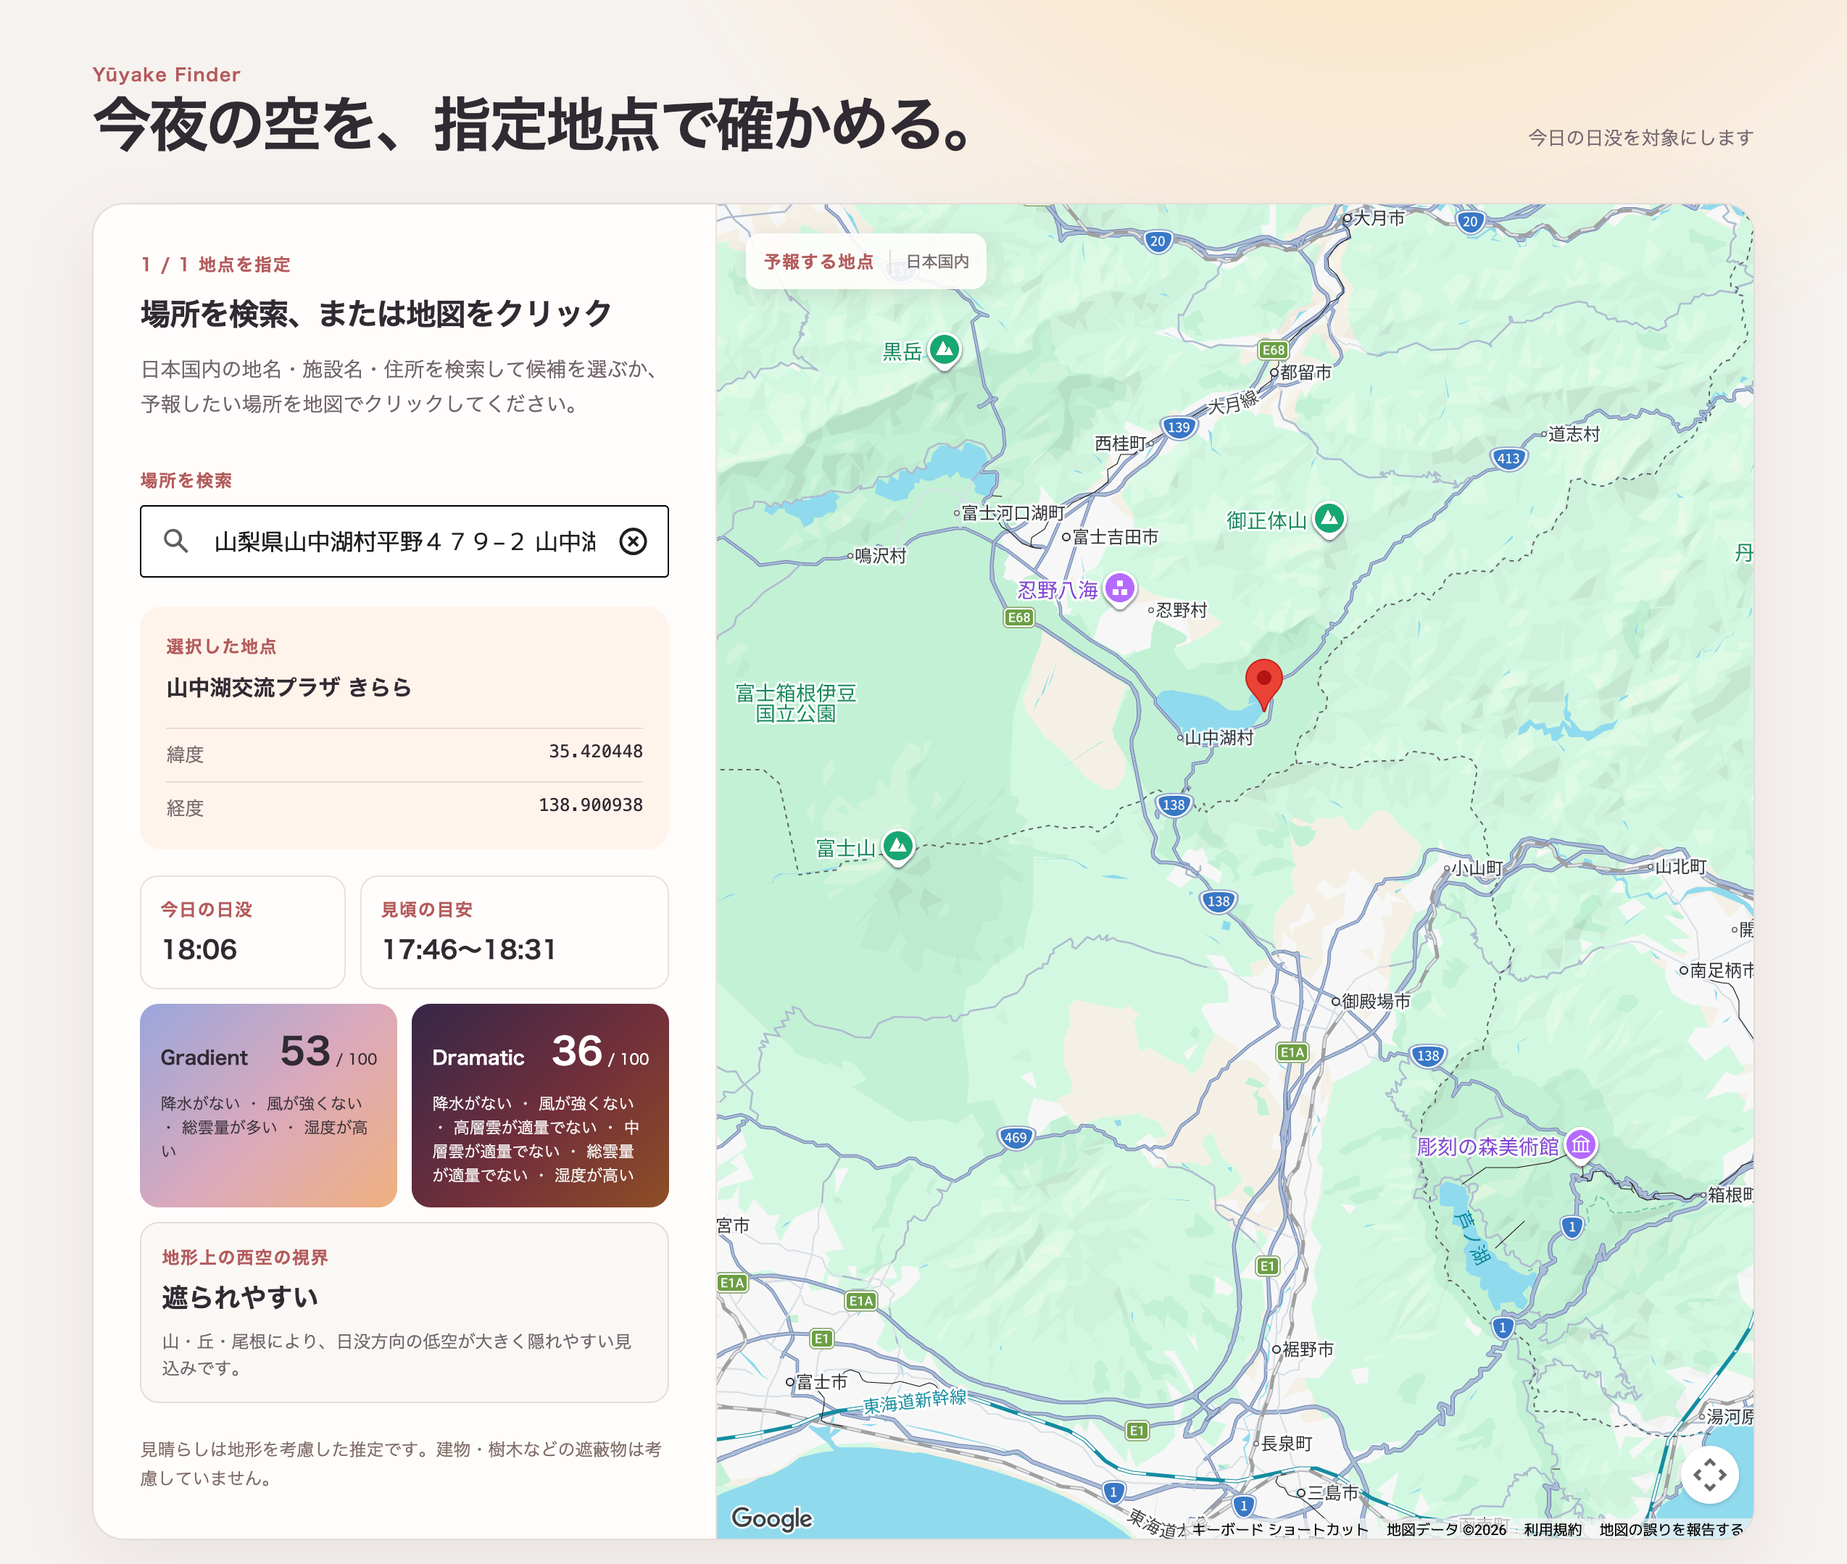
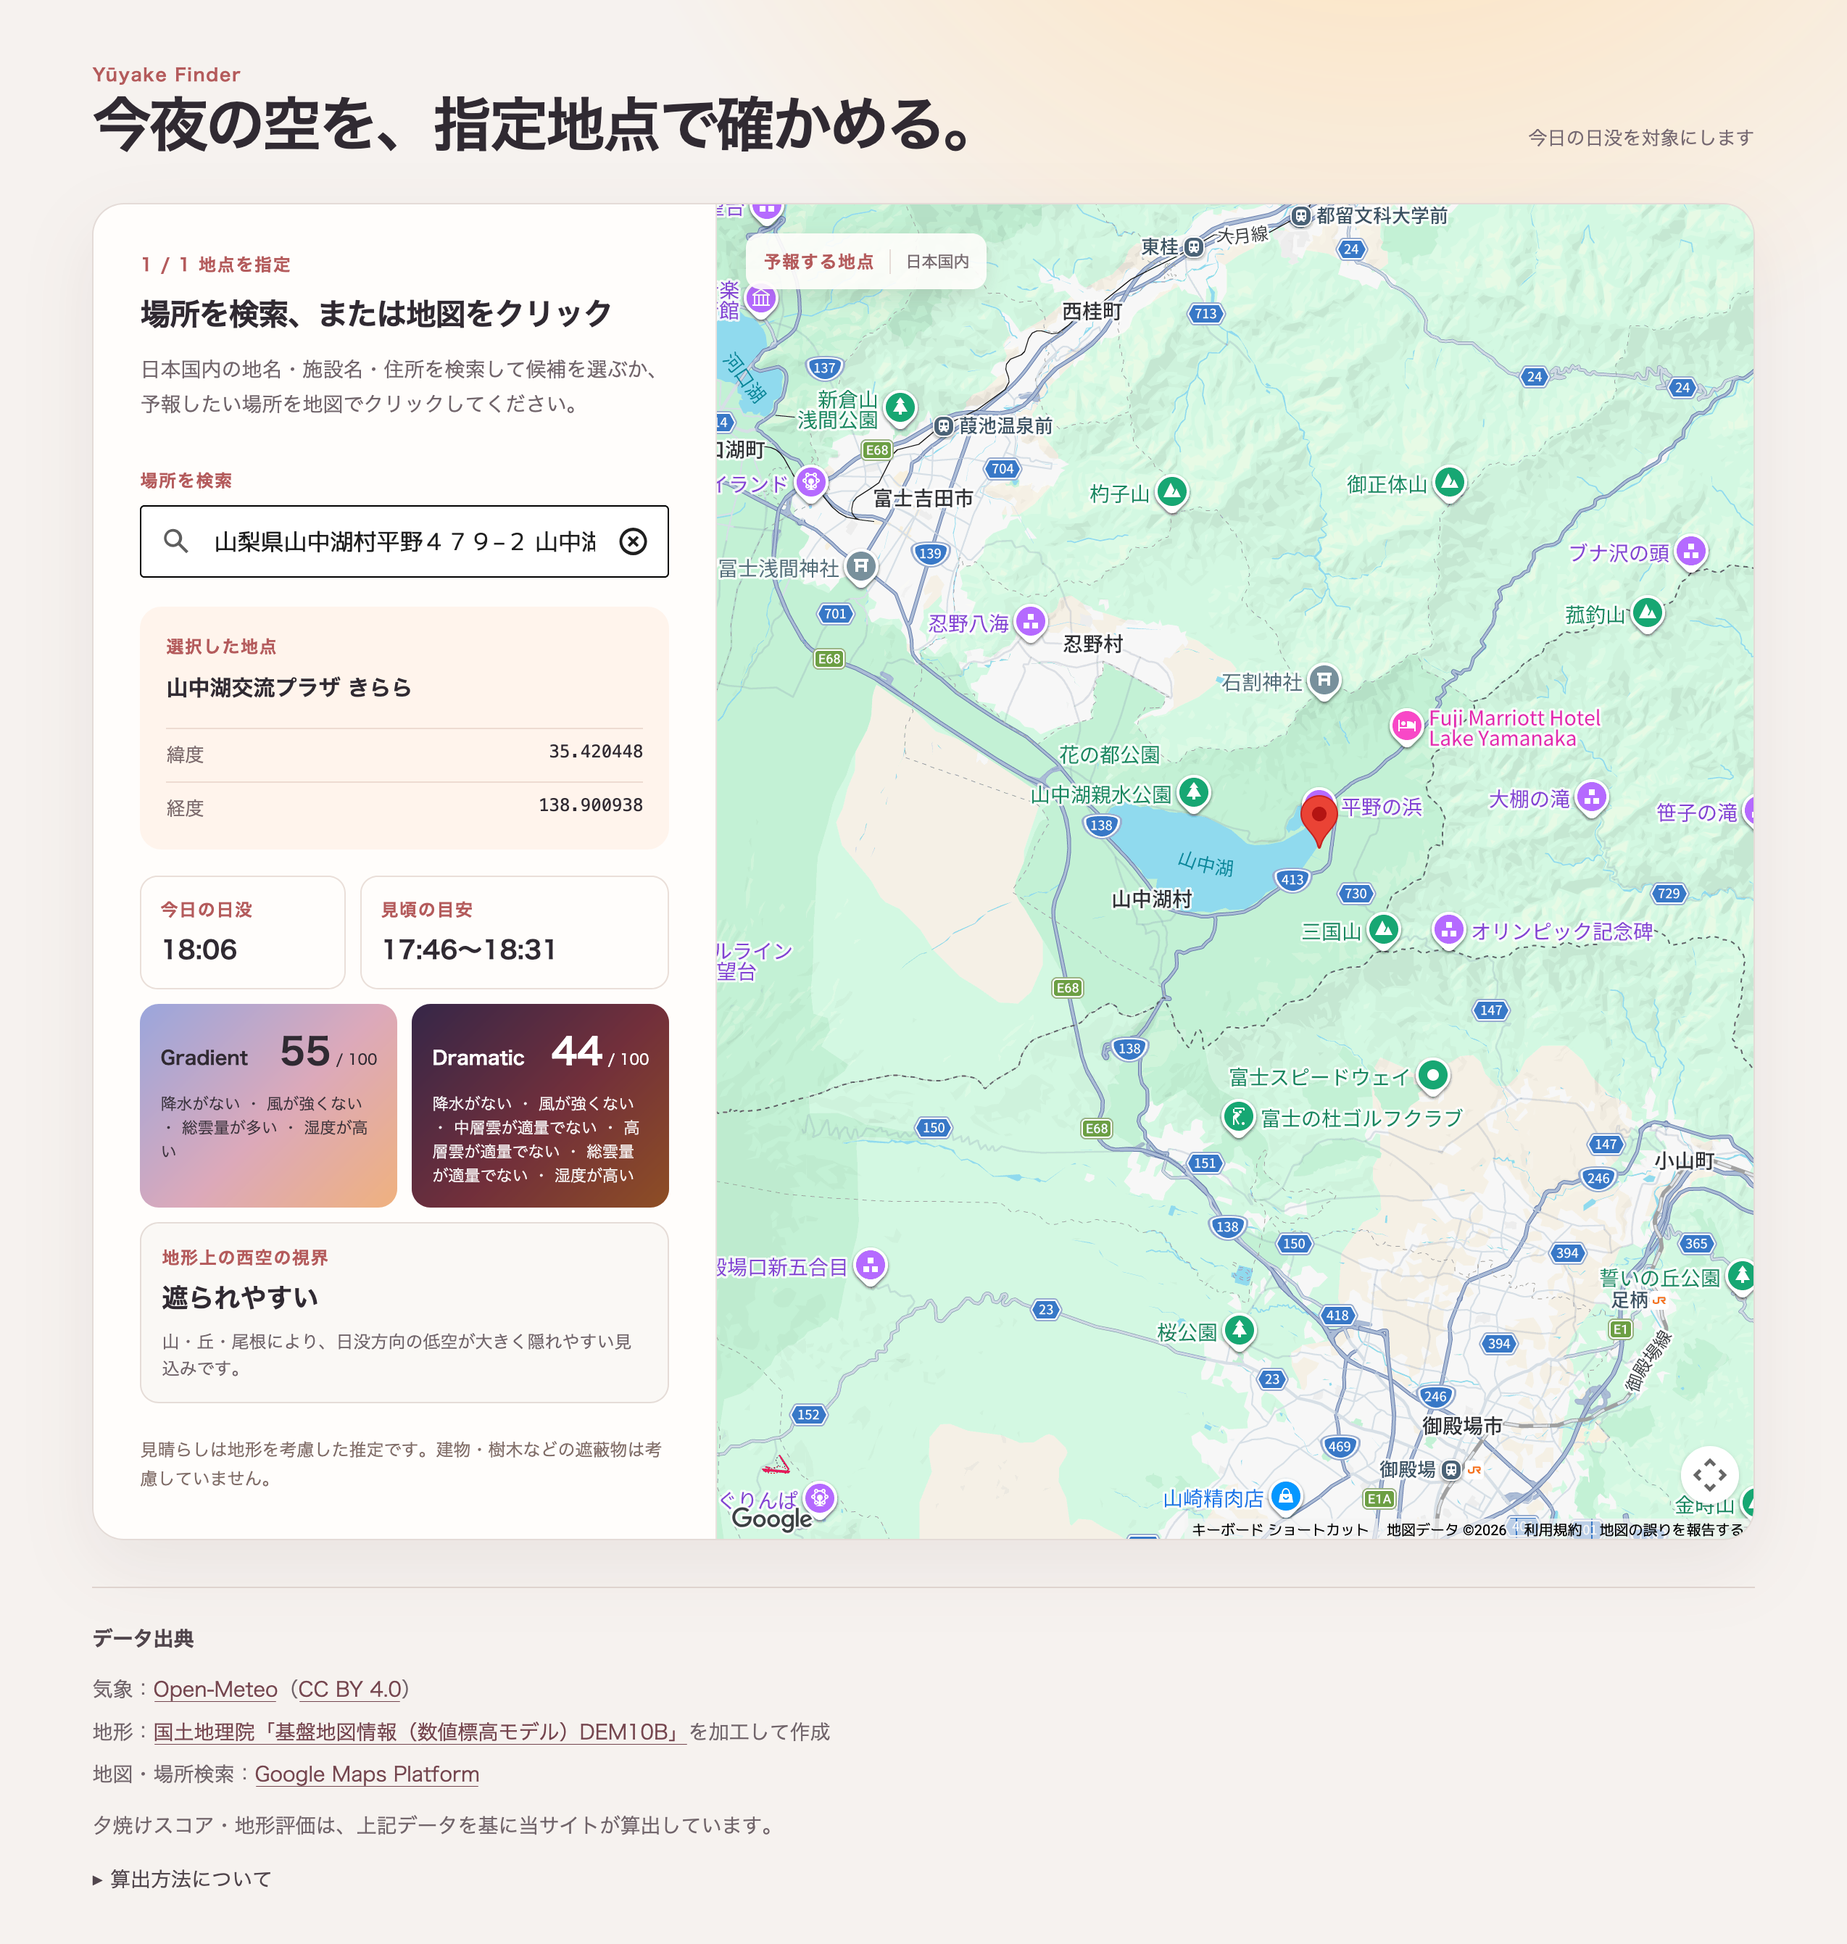
feat(site): add data sources to footer and README1
Group source links and processing attribution below main content to
keep the forecast flow clear. Include collapsible calculation notes.

diff --git a/site/app/page.tsx b/site/app/page.tsx
@@ -299,73 +299,102 @@ export default function Home() {
   }, [requestForecast]);
 
   return (
-    <main className="app-shell">
-      <header className="app-header">
-        <div>
-          <p className="eyebrow">Yūyake Finder</p>
-          <h1>今夜の空を、指定地点で確かめる。</h1>
-        </div>
-        <p className="today">今日の日没を対象にします</p>
-      </header>
-
-      <section className="picker-layout" aria-label="予報する地点の指定">
-        <aside className="instructions">
-          <p className="step">1 / 1 地点を指定</p>
-          <h2>場所を検索、または地図をクリック</h2>
-          <p>日本国内の地名・施設名・住所を検索して候補を選ぶか、予報したい場所を地図でクリックしてください。</p>
-
-          <div className="place-search">
-            <p className="section-label" id="place-search-label">場所を検索</p>
-            <div className="place-search-widget" aria-labelledby="place-search-label">
-              <div className="place-search-mount" ref={searchElement} />
-              {mapStatus === "loading" && <p>検索を準備しています…</p>}
-              {mapStatus === "missing-key" && <p>検索にはGoogle Maps APIキーが必要です。</p>}
-              {mapStatus === "error" && <p>場所の検索を読み込めませんでした。</p>}
-            </div>
-            {searchError && <p className="place-search-error" role="alert">{searchError}</p>}
+    <div className="app-shell">
+      <main>
+        <header className="app-header">
+          <div>
+            <p className="eyebrow">Yūyake Finder</p>
+            <h1>今夜の空を、指定地点で確かめる。</h1>
           </div>
+          <p className="today">今日の日没を対象にします</p>
+        </header>
 
-          <section className="selected-place" aria-live="polite">
-            <p className="section-label">選択した地点</p>
-            {selectedPlace ? (
-              <>
-                <strong>{selectedPlace.name}</strong>
-                <dl>
-                  <div><dt>緯度</dt><dd>{formatCoordinate(selectedPlace.coordinates.lat)}</dd></div>
-                  <div><dt>経度</dt><dd>{formatCoordinate(selectedPlace.coordinates.lng)}</dd></div>
-                </dl>
-              </>
-            ) : <p className="empty-state">まだ地点が選択されていません。</p>}
-          </section>
+        <section className="picker-layout" aria-label="予報する地点の指定">
+          <aside className="instructions">
+            <p className="step">1 / 1 地点を指定</p>
+            <h2>場所を検索、または地図をクリック</h2>
+            <p>日本国内の地名・施設名・住所を検索して候補を選ぶか、予報したい場所を地図でクリックしてください。</p>
 
-          <div className="forecast-panel" aria-live="polite" aria-busy={forecastStatus === "loading"}>
-            {forecastStatus === "idle" && <p className="forecast-prompt">地点を選ぶと、今日の夕焼け評価を表示します。</p>}
-            {forecastStatus === "loading" && <p className="forecast-loading" role="status">気象と地形を評価しています…</p>}
-            {forecastStatus === "error" && (
-              <div className="forecast-error" role="alert">
-                <strong>予報を表示できません</strong>
-                <p>{forecastError}</p>
-                <button type="button" onClick={() => selectedPlace && requestForecast(selectedPlace.coordinates)}>再試行</button>
+            <div className="place-search">
+              <p className="section-label" id="place-search-label">場所を検索</p>
+              <div className="place-search-widget" aria-labelledby="place-search-label">
+                <div className="place-search-mount" ref={searchElement} />
+                {mapStatus === "loading" && <p>検索を準備しています…</p>}
+                {mapStatus === "missing-key" && <p>検索にはGoogle Maps APIキーが必要です。</p>}
+                {mapStatus === "error" && <p>場所の検索を読み込めませんでした。</p>}
               </div>
+              {searchError && <p className="place-search-error" role="alert">{searchError}</p>}
+            </div>
+
+            <section className="selected-place" aria-live="polite">
+              <p className="section-label">選択した地点</p>
+              {selectedPlace ? (
+                <>
+                  <strong>{selectedPlace.name}</strong>
+                  <dl>
+                    <div><dt>緯度</dt><dd>{formatCoordinate(selectedPlace.coordinates.lat)}</dd></div>
+                    <div><dt>経度</dt><dd>{formatCoordinate(selectedPlace.coordinates.lng)}</dd></div>
+                  </dl>
+                </>
+              ) : <p className="empty-state">まだ地点が選択されていません。</p>}
+            </section>
+
+            <div className="forecast-panel" aria-live="polite" aria-busy={forecastStatus === "loading"}>
+              {forecastStatus === "idle" && <p className="forecast-prompt">地点を選ぶと、今日の夕焼け評価を表示します。</p>}
+              {forecastStatus === "loading" && <p className="forecast-loading" role="status">気象と地形を評価しています…</p>}
+              {forecastStatus === "error" && (
+                <div className="forecast-error" role="alert">
+                  <strong>予報を表示できません</strong>
+                  <p>{forecastError}</p>
+                  <button type="button" onClick={() => selectedPlace && requestForecast(selectedPlace.coordinates)}>再試行</button>
+                </div>
+              )}
+              {forecastStatus === "success" && forecast && <ForecastResult forecast={forecast} />}
+            </div>
+
+            {!(forecastStatus === "success" && forecast) && (
+              <p className="terrain-notice">見晴らしは地形を考慮した推定です。建物・樹木などの遮蔽物は考慮していません。</p>
             )}
-            {forecastStatus === "success" && forecast && <ForecastResult forecast={forecast} />}
-          </div>
+          </aside>
 
-          {!(forecastStatus === "success" && forecast) && (
-            <p className="terrain-notice">見晴らしは地形を考慮した推定です。建物・樹木などの遮蔽物は考慮していません。</p>
-          )}
-        </aside>
-
-        <section className="map-card" aria-label="日本地図">
-          <div className="map-heading"><span>予報する地点</span><small>日本国内</small></div>
-          <div className="map-canvas">
-            <div className="google-map" ref={mapElement} />
-            {mapStatus === "loading" && <p className="map-message">地図を準備しています…</p>}
-            {mapStatus === "missing-key" && <p className="map-message map-error">Google Maps APIキーが設定されていません。ローカル起動時に<code>VITE_GOOGLE_MAPS_API_KEY</code>を渡してください。</p>}
-            {mapStatus === "error" && <p className="map-message map-error">地図を読み込めませんでした。APIキーの参照元・API制限とブラウザの開発者ツールを確認してください。</p>}
-          </div>
+          <section className="map-card" aria-label="日本地図">
+            <div className="map-heading"><span>予報する地点</span><small>日本国内</small></div>
+            <div className="map-canvas">
+              <div className="google-map" ref={mapElement} />
+              {mapStatus === "loading" && <p className="map-message">地図を準備しています…</p>}
+              {mapStatus === "missing-key" && <p className="map-message map-error">Google Maps APIキーが設定されていません。ローカル起動時に<code>VITE_GOOGLE_MAPS_API_KEY</code>を渡してください。</p>}
+              {mapStatus === "error" && <p className="map-message map-error">地図を読み込めませんでした。APIキーの参照元・API制限とブラウザの開発者ツールを確認してください。</p>}
+            </div>
+          </section>
         </section>
-      </section>
-    </main>
+      </main>
+
+      <footer className="site-footer" aria-labelledby="data-sources-heading">
+        <h2 id="data-sources-heading">データ出典</h2>
+        <ul className="data-sources">
+          <li>気象：<a href="https://open-meteo.com/">Open-Meteo</a>（<a href="https://creativecommons.org/licenses/by/4.0/">CC BY 4.0</a>）</li>
+          <li>地形：<a href="https://service.gsi.go.jp/kiban/app/help/">国土地理院「基盤地図情報（数値標高モデル）DEM10B」</a>を加工して作成</li>
+          <li>地図・場所検索：<a href="https://mapsplatform.google.com/">Google Maps Platform</a></li>
+        </ul>
+        <p>夕焼けスコア・地形評価は、上記データを基に当サイトが算出しています。</p>
+        <details className="calculation-details">
+          <summary>算出方法について</summary>
+          <dl>
+            <div>
+              <dt>夕焼けスコア</dt>
+              <dd>日没前後の雲量・視程・湿度・降水などの気象予報を基に、当サイト独自のルールで算出します。Gradient はなめらかなグラデーション、Dramatic は赤や桃色の鮮やかな焼け空への期待度です。実際の夕焼けを保証するものではありません。</dd>
+            </div>
+            <div>
+              <dt>地形上の見晴らし</dt>
+              <dd>DEM10B の標高から日没方向の地形による遮蔽を推定します。建物・樹木などの遮蔽物は考慮していません。</dd>
+            </div>
+            <div>
+              <dt>日没時刻・見頃</dt>
+              <dd>日没時刻は指定地点と今日の日付を基に天文計算で求めます。見頃は日没20分前から日没25分後までを目安として表示しています。</dd>
+            </div>
+          </dl>
+        </details>
+      </footer>
+    </div>
   );
 }

diff --git a/site/app/globals.css b/site/app/globals.css
@@ -2,6 +2,17 @@
 * { box-sizing: border-box; }
 body { min-width: 320px; margin: 0; background: radial-gradient(circle at 75% -20%, #ffddac 0, transparent 30%), #f6f2ef; }
 code { font: inherit; }
+.site-footer { margin-top: 32px; padding-top: 22px; border-top: 1px solid #ded3ce; color: #71656b; font-size: .875rem; line-height: 1.8; overflow-wrap: anywhere; }
+.site-footer h2 { margin-bottom: 10px; color: #51464d; font-size: .875rem; }
+.data-sources { display: grid; gap: 4px; margin: 0 0 10px; padding: 0; list-style: none; }
+.site-footer p { margin-bottom: 12px; }
+.site-footer a { color: #75464f; text-decoration: underline; text-underline-offset: 3px; }
+.site-footer a:hover { color: #503039; }
+.site-footer a:focus-visible, .calculation-details summary:focus-visible { outline: 2px solid #854f54; outline-offset: 4px; border-radius: 2px; }
+.calculation-details summary { width: fit-content; cursor: pointer; color: #51464d; }
+.calculation-details dl { display: grid; gap: 12px; max-width: 80ch; margin: 14px 0 0; }
+.calculation-details dt { color: #51464d; font-weight: 700; }
+.calculation-details dd { margin: 3px 0 0; }
 .app-shell { min-height: 100vh; max-width: 1440px; margin: 0 auto; padding: 42px clamp(20px, 5vw, 72px) 56px; }
 .app-header { display: flex; align-items: end; justify-content: space-between; gap: 24px; margin-bottom: 30px; }
 .eyebrow, .step, .section-label, .map-heading { margin: 0; color: #b45b5c; font-size: 12px; font-weight: 700; letter-spacing: .07em; }

diff --git a/README.md b/README.md
@@ -108,8 +108,25 @@ npm test
 
 ## データ出典
 
+### 気象データ
+
+気象データはOpen-Meteo Forecast APIのものを使用する。
+
+> 出典：[Open-Meteo](https://open-meteo.com/)（[CC BY 4.0](https://creativecommons.org/licenses/by/4.0/)）
+>
+> Open-Meteoの気象予報データを加工し、本アプリ独自のルールで夕焼けスコア（Gradient / Dramatic）を算出
+
+取得モデルと加工方法、利用条件へのリンクは[気象予報モジュールのREADME](weather/README.md#出典)を参照する。
+
+### 標高データ
+
 標高データは国土地理院のものを使用する。
 
 > 出典：[国土地理院「基盤地図情報（数値標高モデル）DEM10B」](https://service.gsi.go.jp/kiban/app/help/)
 >
 > [国土地理院「基盤地図情報（数値標高モデル）DEM10B」](https://service.gsi.go.jp/kiban/app/help/)を加工して作成
+
+### 地図表示・場所検索
+
+地図表示・場所検索には[Google Maps Platform](https://mapsplatform.google.com/)（Maps JavaScript API / Places API (New)）を使用する。
+利用条件・帰属表示については[Googleの公式ポリシー](https://developers.google.com/maps/documentation/javascript/policies)を参照する。

diff --git a/weather/README.md b/weather/README.md
@@ -119,3 +119,15 @@ except WeatherEvaluationError as error:
 ```bash
 python3 -m unittest discover -s weather/tests
 ```
+
+## 出典
+
+> 出典：[Open-Meteo](https://open-meteo.com/)（[CC BY 4.0](https://creativecommons.org/licenses/by/4.0/)）
+>
+> Open-Meteoの気象予報データを加工し、本アプリ独自のルールで夕焼けスコア（Gradient / Dramatic）を算出
+
+[Open-Meteo Forecast API](https://open-meteo.com/en/docs)から時間別予報を取得します。JMA Seamlessモデルを優先し、欠損時には上記の取得ルールに従って自動モデル選択へフォールバックします。
+
+日没前後の予報を抽出・平均・正規化して採点しており、夕焼けスコアはOpen-Meteoや気象庁が提供する予報指標ではありません。
+
+データのライセンスはCC BY 4.0です。APIサービスの利用には別途[Open-Meteoの利用規約](https://open-meteo.com/en/terms)が適用されます。
